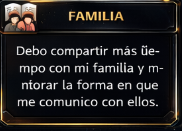
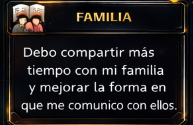
fix: se corrifieron imagenes

diff --git a/index.html b/index.html
@@ -19,23 +19,7 @@
       <div class="orbe orbe2"></div>
       <div class="orbe orbe3"></div>
       <div class="grid-lines"></div>
-      <div class="emojis-flotantes">
-        <span class="emoji-f" style="--x:8%;  --delay:0s;   --dur:7s;  --size:2rem">💻</span>
-        <span class="emoji-f" style="--x:18%; --delay:1.5s; --dur:9s;  --size:1.6rem">⚽</span>
-        <span class="emoji-f" style="--x:28%; --delay:3s;   --dur:8s;  --size:2.2rem">🟢</span>
-        <span class="emoji-f" style="--x:38%; --delay:0.5s; --dur:6s;  --size:1.8rem">🖥</span>
-        <span class="emoji-f" style="--x:50%; --delay:2s;   --dur:10s; --size:2rem">🏆</span>
-        <span class="emoji-f" style="--x:60%; --delay:4s;   --dur:7s;  --size:1.5rem">⌨</span>
-        <span class="emoji-f" style="--x:70%; --delay:1s;   --dur:9s;  --size:2rem">🏅</span>
-        <span class="emoji-f" style="--x:80%; --delay:3.5s; --dur:8s;  --size:1.7rem">🧠</span>
-        <span class="emoji-f" style="--x:90%; --delay:0.8s; --dur:6s;  --size:2.2rem">👟</span>
-        <span class="emoji-f" style="--x:13%; --delay:5s;   --dur:11s; --size:1.5rem">🔋</span>
-        <span class="emoji-f" style="--x:45%; --delay:6s;   --dur:8s;  --size:1.8rem">🏋</span>
-        <span class="emoji-f" style="--x:75%; --delay:2.5s; --dur:9s;  --size:1.6rem">📱</span>
-        <span class="emoji-f" style="--x:55%; --delay:7s;   --dur:7s;  --size:2rem">🌿</span>
-        <span class="emoji-f" style="--x:33%; --delay:4.5s; --dur:10s; --size:1.5rem">🖱</span>
-        <span class="emoji-f" style="--x:88%; --delay:6.5s; --dur:8s;  --size:1.8rem">🏃</span>
-      </div>
+
     </div>
     <div class="inicio-contenido">
       <div class="titulo-wrapper">
@@ -134,7 +118,23 @@
       </div>
     </div>
   </section>
-
+<div class="emojis-flotantes">
+<span class="emoji-f" style="--x:8%;  --delay:0s;   --dur:7s;  --size:2rem">💻</span>
+<span class="emoji-f" style="--x:18%; --delay:1.5s; --dur:9s;  --size:1.6rem">⚽</span>
+<span class="emoji-f" style="--x:28%; --delay:3s;   --dur:8s;  --size:2.2rem">🟢</span>
+<span class="emoji-f" style="--x:38%; --delay:0.5s; --dur:6s;  --size:1.8rem">🖥</span>
+<span class="emoji-f" style="--x:50%; --delay:2s;   --dur:10s; --size:2rem">🏆</span>
+<span class="emoji-f" style="--x:60%; --delay:4s;   --dur:7s;  --size:1.5rem">⌨</span>
+<span class="emoji-f" style="--x:70%; --delay:1s;   --dur:9s;  --size:2rem">🏅</span>
+<span class="emoji-f" style="--x:80%; --delay:3.5s; --dur:8s;  --size:1.7rem">🧠</span>
+<span class="emoji-f" style="--x:90%; --delay:0.8s; --dur:6s;  --size:2.2rem">👟</span>
+<span class="emoji-f" style="--x:13%; --delay:5s;   --dur:11s; --size:1.5rem">🔋</span>
+<span class="emoji-f" style="--x:45%; --delay:6s;   --dur:8s;  --size:1.8rem">🏋</span>
+<span class="emoji-f" style="--x:75%; --delay:2.5s; --dur:9s;  --size:1.6rem">📱</span>
+<span class="emoji-f" style="--x:55%; --delay:7s;   --dur:7s;  --size:2rem">🌿</span>
+<span class="emoji-f" style="--x:33%; --delay:4.5s; --dur:10s; --size:1.5rem">🖱</span>
+<span class="emoji-f" style="--x:88%; --delay:6.5s; --dur:8s;  --size:1.8rem">🏃</span>
+</div>
   <script src="script.js"></script>
 
   <div class="overlay-imagen" id="overlayImagen">

diff --git a/styles.css b/styles.css
@@ -535,30 +535,31 @@ html, body {
 }
 
 /* =============================================
-   EMOJIS FLOTANTES — INICIO
+   EMOJIS FLOTANTES — GLOBAL (todas las secciones)
    ============================================= */
 .emojis-flotantes {
-  position: absolute;
+  position: fixed;
   inset: 0;
   pointer-events: none;
-  z-index: 1;
+  z-index: 10;
+  overflow: visible;
 }
 
 .emoji-f {
   position: absolute;
   left: var(--x);
-  bottom: -10%;
-  font-size: var(--size);
-  animation: subirEmoji var(--dur) ease-in-out var(--delay) infinite;
+  top: 100%;
+  font-size: var(--size, 2rem);
+  animation: subirEmoji var(--dur, 8s) ease-in-out var(--delay, 0s) infinite;
   opacity: 0;
-  filter: drop-shadow(0 0 6px rgba(0,229,255,0.5));
+  filter: drop-shadow(0 0 8px rgba(0,229,255,0.5));
   user-select: none;
 }
 
 @keyframes subirEmoji {
-  0%   { transform: translateY(0)   rotate(0deg)   scale(0.8); opacity: 0; }
-  10%  { opacity: 0.75; }
-  50%  { transform: translateY(-55vh) rotate(15deg)  scale(1.1); opacity: 0.6; }
-  90%  { opacity: 0.3; }
-  100% { transform: translateY(-110vh) rotate(-10deg) scale(0.9); opacity: 0; }
+  0%   { transform: translateY(0)      rotate(0deg)   scale(0.8); opacity: 0;    }
+  8%   { opacity: 0.75; }
+  45%  { transform: translateY(-50vh)  rotate(12deg)  scale(1.1); opacity: 0.6;  }
+  92%  { opacity: 0.3; }
+  100% { transform: translateY(-108vh) rotate(-8deg)  scale(0.9); opacity: 0;    }
 }
